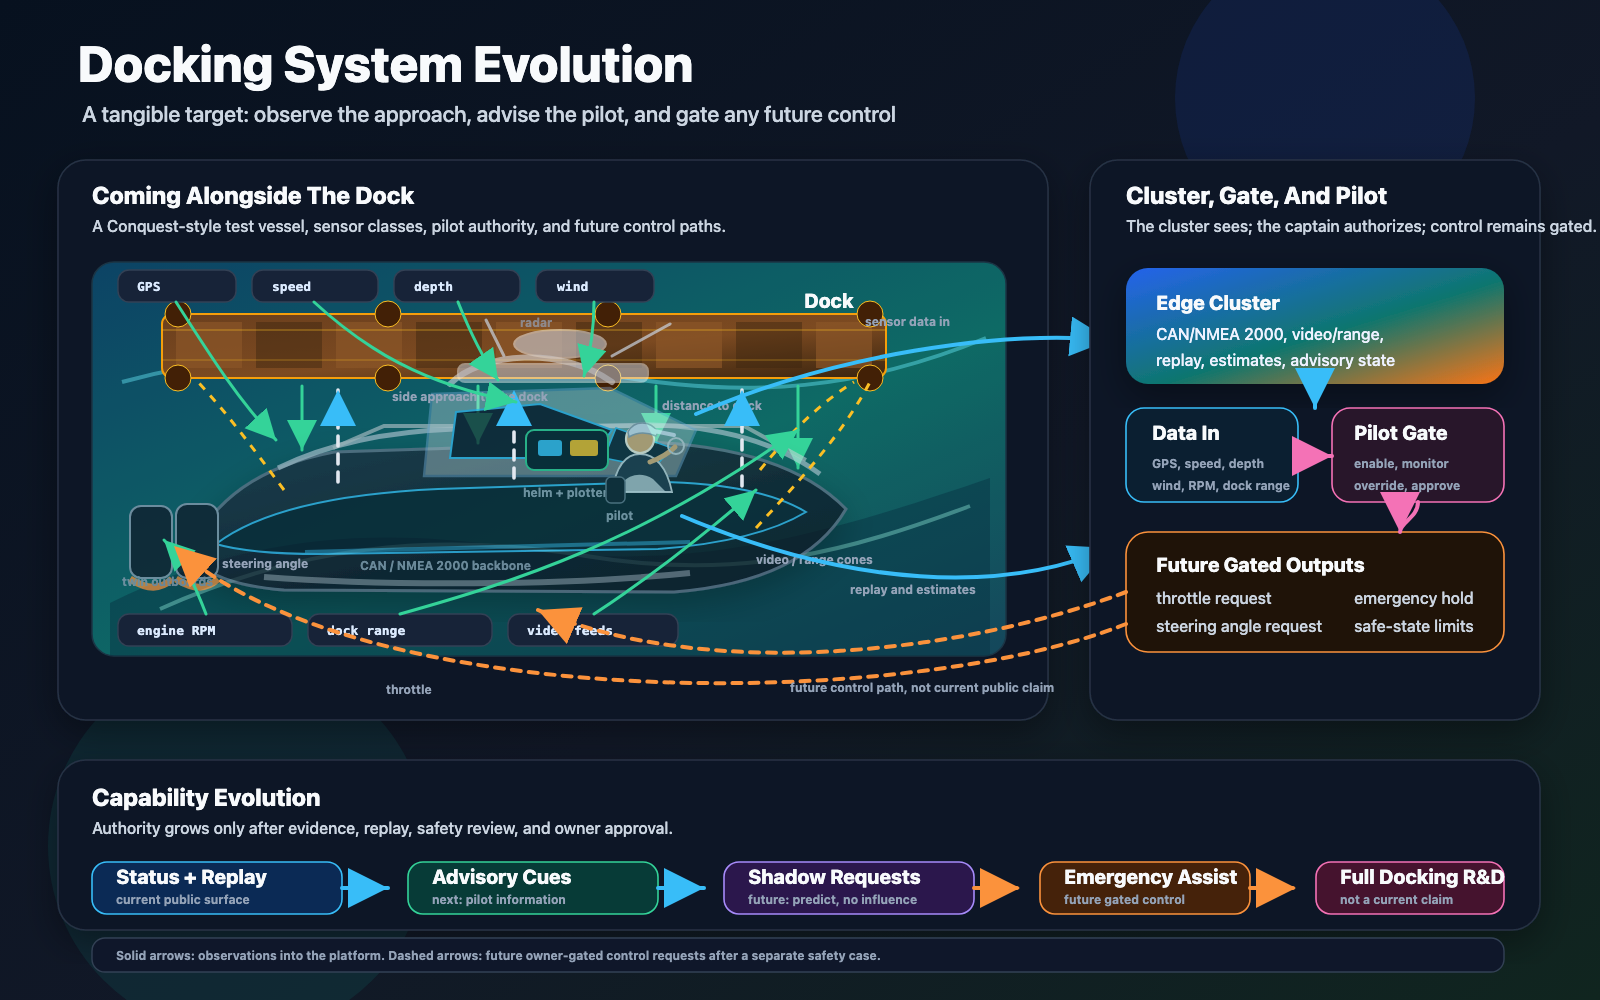
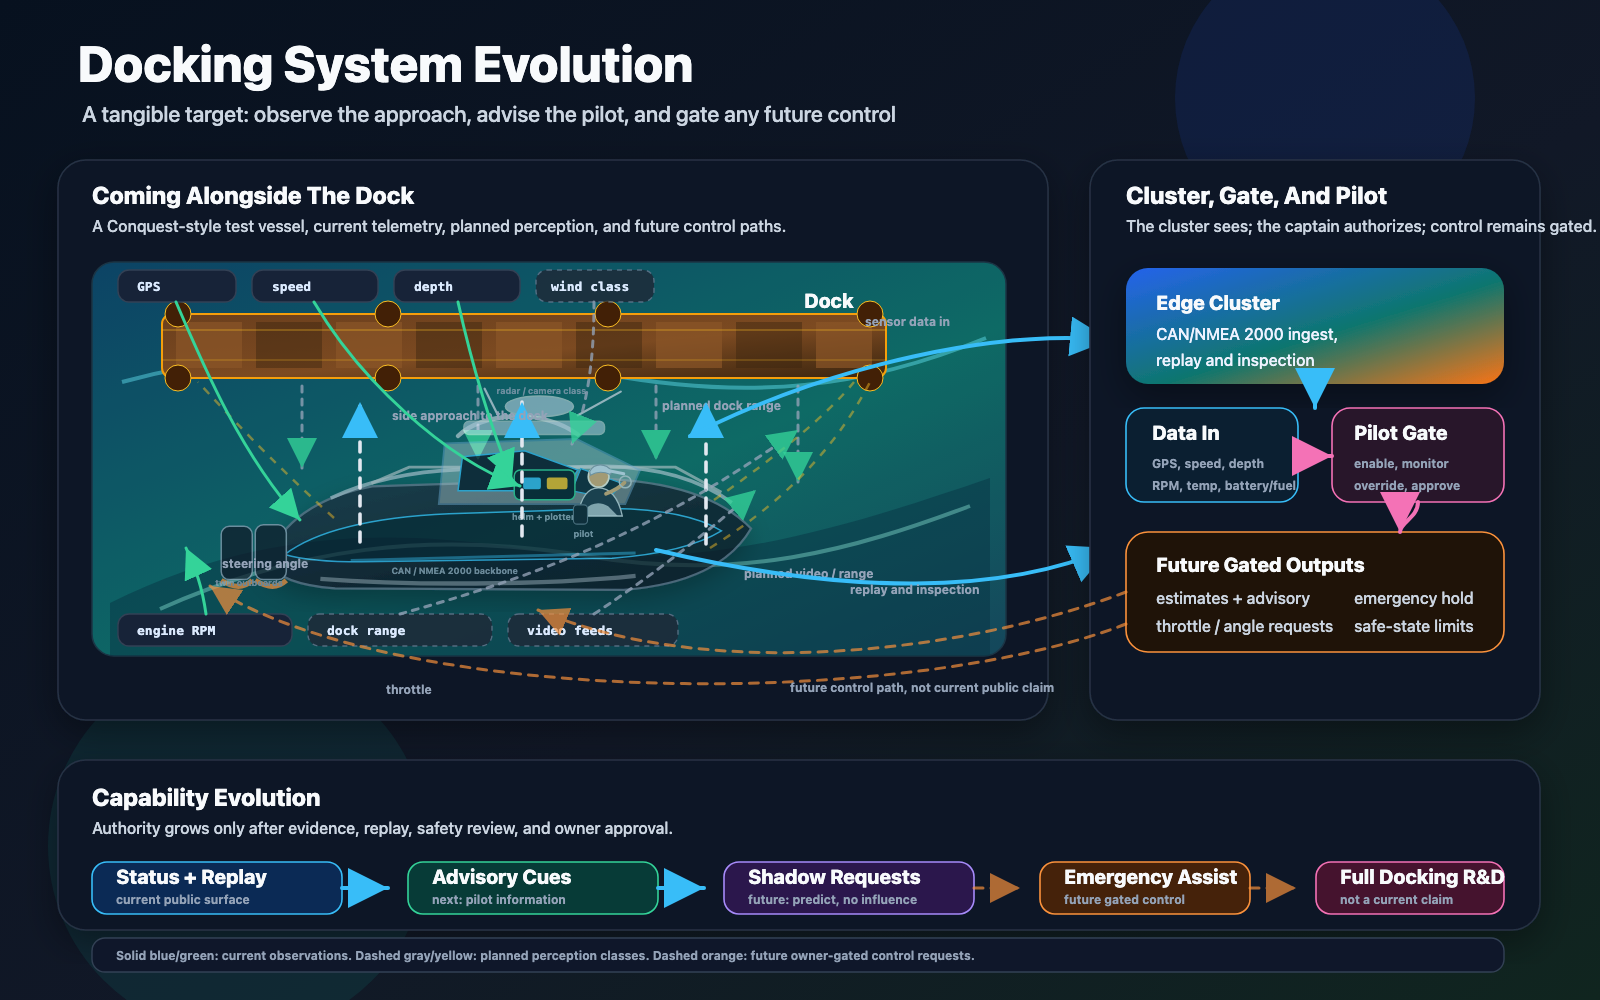
Tighten public docking graphic boundaries

diff --git a/README.md b/README.md
@@ -73,13 +73,9 @@ publish live vessel-control code, actuator wiring, raw capture files, endpoint
 details, secrets, or enough operational detail to reproduce the private system.
 
 The public/private boundary and evidence posture are linked visually below,
-right after the platform shape.
+right after the tangible docking view.
 
 ## How It Works
-
-![BoatAutonomy platform pattern](assets/diagrams/boat-autonomy-platform.png)
-
-Editable source: [boat-autonomy-platform.svg](assets/diagrams/boat-autonomy-platform.svg).
 
 ![Docking system evolution](assets/diagrams/docking-system-evolution.png)
 
@@ -87,10 +83,11 @@ Editable source:
 [docking-system-evolution.svg](assets/diagrams/docking-system-evolution.svg).
 
 The docking view makes the target system tangible: a boat approaching a dock,
-marine electronics and video/range observations flowing into an edge cluster,
-and a captain/pilot remaining in the loop. Solid arrows represent observed
-data. Dashed control arrows represent future, owner-gated requests that would
-require a separate safety case before any live use.
+marine-electronics observations flowing into an edge cluster, planned
+perception classes shown separately, and a captain/pilot remaining in the
+loop. Solid arrows represent observed data. Dashed control arrows represent
+future, owner-gated requests that would require a separate safety case before
+any live use.
 
 <table>
   <tr>
@@ -286,5 +283,6 @@ conversation you want to have.
 
 ## Public Review Status
 
-Draft only. The private project owner must approve content before any GitHub
-repository, profile, release, screenshot, or demo is made public.
+Public v1 surface. The repository is curated, read-only in posture, and still
+bounded by the public/private line described above. Future updates should keep
+evidence, safety boundaries, and owner approval visible before claims expand.

diff --git a/docs/system-platform.md b/docs/system-platform.md
@@ -56,11 +56,13 @@ Editable source:
 [docking-system-evolution.svg](../assets/diagrams/docking-system-evolution.svg).
 
 This view makes the physical target concrete without changing the public
-claim. GPS, speed, depth, wind, engine RPM, dock range, video/range sensors,
-and CAN/NMEA 2000-style data flow into the platform as observations. The
-captain remains in the loop for enable, monitoring, override, and approval.
-Any throttle or steering-angle path is shown as a future gated request, not as
-current live authority.
+claim. Public-evidenced telemetry classes such as GPS, speed, depth, engine
+RPM, temperature, electrical, and fuel flow into the platform as observations.
+Wind, dock-range, radar, and video are shown as planned or example perception
+classes, not as public-evidenced installed inputs. The captain remains in the
+loop for enable, monitoring, override, and approval. Any throttle or
+steering-angle path is shown as a future gated request, not as current live
+authority.
 
 ## Instrumented Survey And Digital Twin
 
